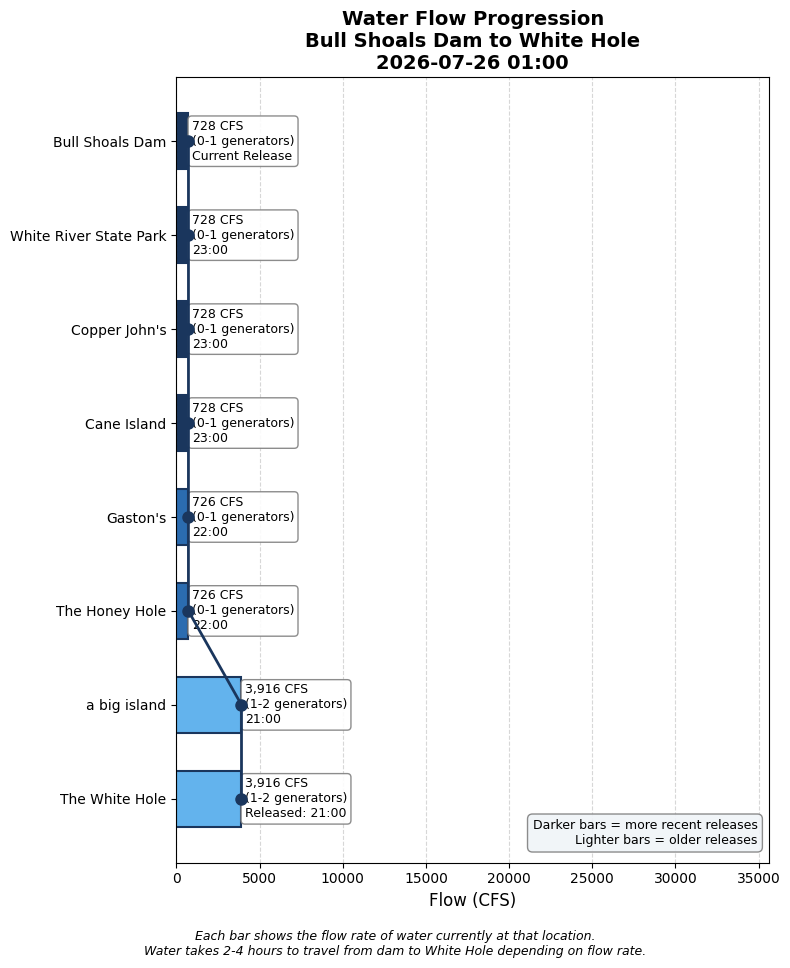
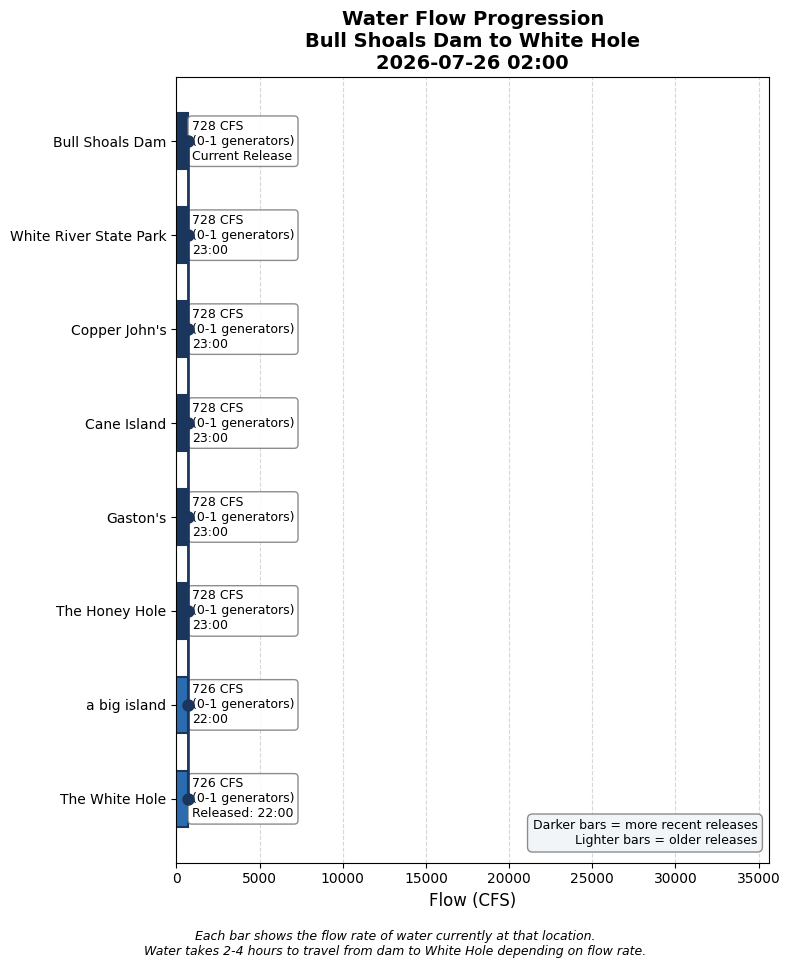
Update water conditions 2026-07-26 02:00

Changed region(s): [[0.2127, 0.5888, 0.4557, 0.8678], [0.2127, 0.4959, 0.243, 0.5579]]

diff --git a/white_hole_conditions.html b/white_hole_conditions.html
@@ -3,7 +3,7 @@
 <head>
     <meta charset="UTF-8">
     <meta name="viewport" content="width=device-width, initial-scale=1.0">
-    <title>White Hole Conditions - 2026-07-26 01:00</title>
+    <title>White Hole Conditions - 2026-07-26 02:00</title>
     <style>
         body {
             font-family: -apple-system, BlinkMacSystemFont, 'Segoe UI', Roboto, sans-serif;
@@ -23,7 +23,7 @@
             margin-bottom: 20px;
         }
         .headline-banner {
-            background-color: #2b6cb0;
+            background-color: #319795;
             color: white;
             border-radius: 12px;
             padding: 25px;
@@ -73,12 +73,12 @@
             font-weight: 500;
         }
         .pill.wading {
-            background-color: #fef3c7;
-            color: #92400e;
+            background-color: #d1fae5;
+            color: #065f46;
         }
         .pill.boating {
-            background-color: #dbeafe;
-            color: #1e40af;
+            background-color: #fef3c7;
+            color: #92400e;
         }
         .timeline-box {
             background-color: white;
@@ -148,23 +148,23 @@
 </head>
 <body>
     <h1>White Hole Current Conditions</h1>
-    <p class="subtitle">Sunday, July 26, 2026 at 01:00 AM</p>
+    <p class="subtitle">Sunday, July 26, 2026 at 02:00 AM</p>
 
     <!-- HEADLINE BANNER -->
     <div class="headline-banner">
-        <div class="main-status">⚠ MARGINAL WADING — Use caution</div>
-        <div class="forecast-status">📉 FALLING WATER — Conditions improving</div>
+        <div class="main-status">✅ GOOD WADING — Conditions favorable</div>
+        <div class="forecast-status">➡ STABLE CONDITIONS expected</div>
         <div class="forecast-status" style="margin-top: 5px; opacity: 0.9;">📅 HIGH WATER SCHEDULED — ~3:54 PM</div>
     </div>
 
     <!-- CURRENT CONDITIONS -->
     <div class="current-conditions">
         <h3>Current Conditions at White Hole</h3>
-        <div class="flow-display">3,916 CFS</div>
-        <div class="generator-display">Equivalent to 1-2 generators</div>
+        <div class="flow-display">726 CFS</div>
+        <div class="generator-display">Equivalent to 0-1 generators</div>
         <div class="condition-pills">
-            <span class="pill wading">Still Wadable</span>
-            <span class="pill boating">Ideal Boating</span>
+            <span class="pill wading">Excellent Wading</span>
+            <span class="pill boating">Low For Boating</span>
         </div>
         <a href="https://www.youtube.com/channel/UCAXhb9nFnsfu367AthDrgIA/live" target="_blank" class="webcam-link" style="margin-top: 15px;">
             📹 View Live Webcam
@@ -188,7 +188,15 @@
                     
                 <tr><td colspan="3" style="padding: 8px 10px; font-size: 0.8em; font-weight: bold; color: #6b46c1; text-transform: uppercase; letter-spacing: 0.05em; background-color: #f3e8ff;">Scheduled (SWPA forecast)</td></tr>
                 
-                    <tr style="background-color: #faf5ff; border-left: 4px solid #38a169;">
+                    <tr style="background-color: #faf5ff; ">
+                        <td style="padding: 10px; font-weight: bold;">5 AM</td>
+                        <td style="padding: 10px;">723 CFS<br><small style="color: #666;">(0-1 generators: 473 generation + 250 min flow)</small></td>
+                        <td style="padding: 10px;">~8:44 AM
+                            <span style="display: inline-block; margin-left: 6px; padding: 2px 8px; border-radius: 12px; font-size: 0.8em; background-color: #d1fae5; color: #065f46;">Excellent Wading</span>
+                        </td>
+                    </tr>
+                
+                    <tr style="background-color: #faf5ff; ">
                         <td style="padding: 10px; font-weight: bold;">4 AM</td>
                         <td style="padding: 10px;">723 CFS<br><small style="color: #666;">(0-1 generators: 473 generation + 250 min flow)</small></td>
                         <td style="padding: 10px;">~7:44 AM
@@ -196,7 +204,7 @@
                         </td>
                     </tr>
                 
-                    <tr style="background-color: #faf5ff; border-left: 4px solid #38a169;">
+                    <tr style="background-color: #faf5ff; ">
                         <td style="padding: 10px; font-weight: bold;">3 AM</td>
                         <td style="padding: 10px;">723 CFS<br><small style="color: #666;">(0-1 generators: 473 generation + 250 min flow)</small></td>
                         <td style="padding: 10px;">~6:44 AM
@@ -204,18 +212,10 @@
                         </td>
                     </tr>
                 
-                    <tr style="background-color: #faf5ff; border-left: 4px solid #38a169;">
+                    <tr style="background-color: #faf5ff; ">
                         <td style="padding: 10px; font-weight: bold;">2 AM</td>
                         <td style="padding: 10px;">723 CFS<br><small style="color: #666;">(0-1 generators: 473 generation + 250 min flow)</small></td>
                         <td style="padding: 10px;">~5:44 AM
-                            <span style="display: inline-block; margin-left: 6px; padding: 2px 8px; border-radius: 12px; font-size: 0.8em; background-color: #d1fae5; color: #065f46;">Excellent Wading</span>
-                        </td>
-                    </tr>
-                
-                    <tr style="background-color: #faf5ff; border-left: 4px solid #38a169;">
-                        <td style="padding: 10px; font-weight: bold;">1 AM</td>
-                        <td style="padding: 10px;">723 CFS<br><small style="color: #666;">(0-1 generators: 473 generation + 250 min flow)</small></td>
-                        <td style="padding: 10px;">~4:44 AM
                             <span style="display: inline-block; margin-left: 6px; padding: 2px 8px; border-radius: 12px; font-size: 0.8em; background-color: #d1fae5; color: #065f46;">Excellent Wading</span>
                         </td>
                     </tr>
@@ -227,18 +227,12 @@
                     <tr style="background-color: #ebf8ff;">
                         <td style="padding: 10px; font-weight: bold;">11:00 PM</td>
                         <td style="padding: 10px;">728 CFS<br><small style="color: #666;">(0-1 generators)</small></td>
-                        <td style="padding: 10px;"><span style="color: #2b6cb0;">→ Arrives ~2:44 AM (in 103 min)</span></td>
-                    </tr>
-                
-                    <tr style="background-color: #ebf8ff;">
-                        <td style="padding: 10px; font-weight: bold;">10:00 PM</td>
-                        <td style="padding: 10px;">726 CFS<br><small style="color: #666;">(0-1 generators)</small></td>
-                        <td style="padding: 10px;"><span style="color: #2b6cb0;">→ Arrives ~1:44 AM (in 43 min)</span></td>
+                        <td style="padding: 10px;"><span style="color: #2b6cb0;">→ Arrives ~2:44 AM (in 43 min)</span></td>
                     </tr>
                 
                     <tr style="background-color: #e6fffa;">
-                        <td style="padding: 10px; font-weight: bold;">9:00 PM</td>
-                        <td style="padding: 10px;">3,916 CFS<br><small style="color: #666;">(1-2 generators)</small></td>
+                        <td style="padding: 10px; font-weight: bold;">10:00 PM</td>
+                        <td style="padding: 10px;">726 CFS<br><small style="color: #666;">(0-1 generators)</small></td>
                         <td style="padding: 10px;"><span style="color: #319795; font-weight: bold;">← AT WHITE HOLE NOW</span></td>
                     </tr>
                 
@@ -275,8 +269,8 @@
         <div style="padding: 15px;">
             <ul>
                 <li>Latest dam reading: 728 CFS at 2026-07-25 23:00</li>
-                <li>Travel time to White Hole: 3.6 hours at current flow</li>
-                <li>White Hole conditions based on dam reading from: 2026-07-25 21:00</li>
+                <li>Travel time to White Hole: 3.7 hours at current flow</li>
+                <li>White Hole conditions based on dam reading from: 2026-07-25 22:00</li>
             </ul>
         </div>
     </details>
@@ -361,13 +355,6 @@
                     <td style="padding: 8px; text-align: right;">2.9</td>
                 </tr>
                 
-                <tr style="border-bottom: 1px solid #eee;">
-                    <td style="padding: 8px;">2026-07-25 14:00</td>
-                    <td style="padding: 8px; text-align: right;">4623</td>
-                    <td style="padding: 8px; text-align: right;">1.4</td>
-                    <td style="padding: 8px; text-align: right;">3.4</td>
-                </tr>
-                
                     </tbody>
                 </table>
             </div>
@@ -375,7 +362,7 @@
         
 
     <div class="timestamp">
-        Data retrieved and processed on 2026-07-26 01:00:08
+        Data retrieved and processed on 2026-07-26 02:00:18
     </div>
 </body>
 </html>
